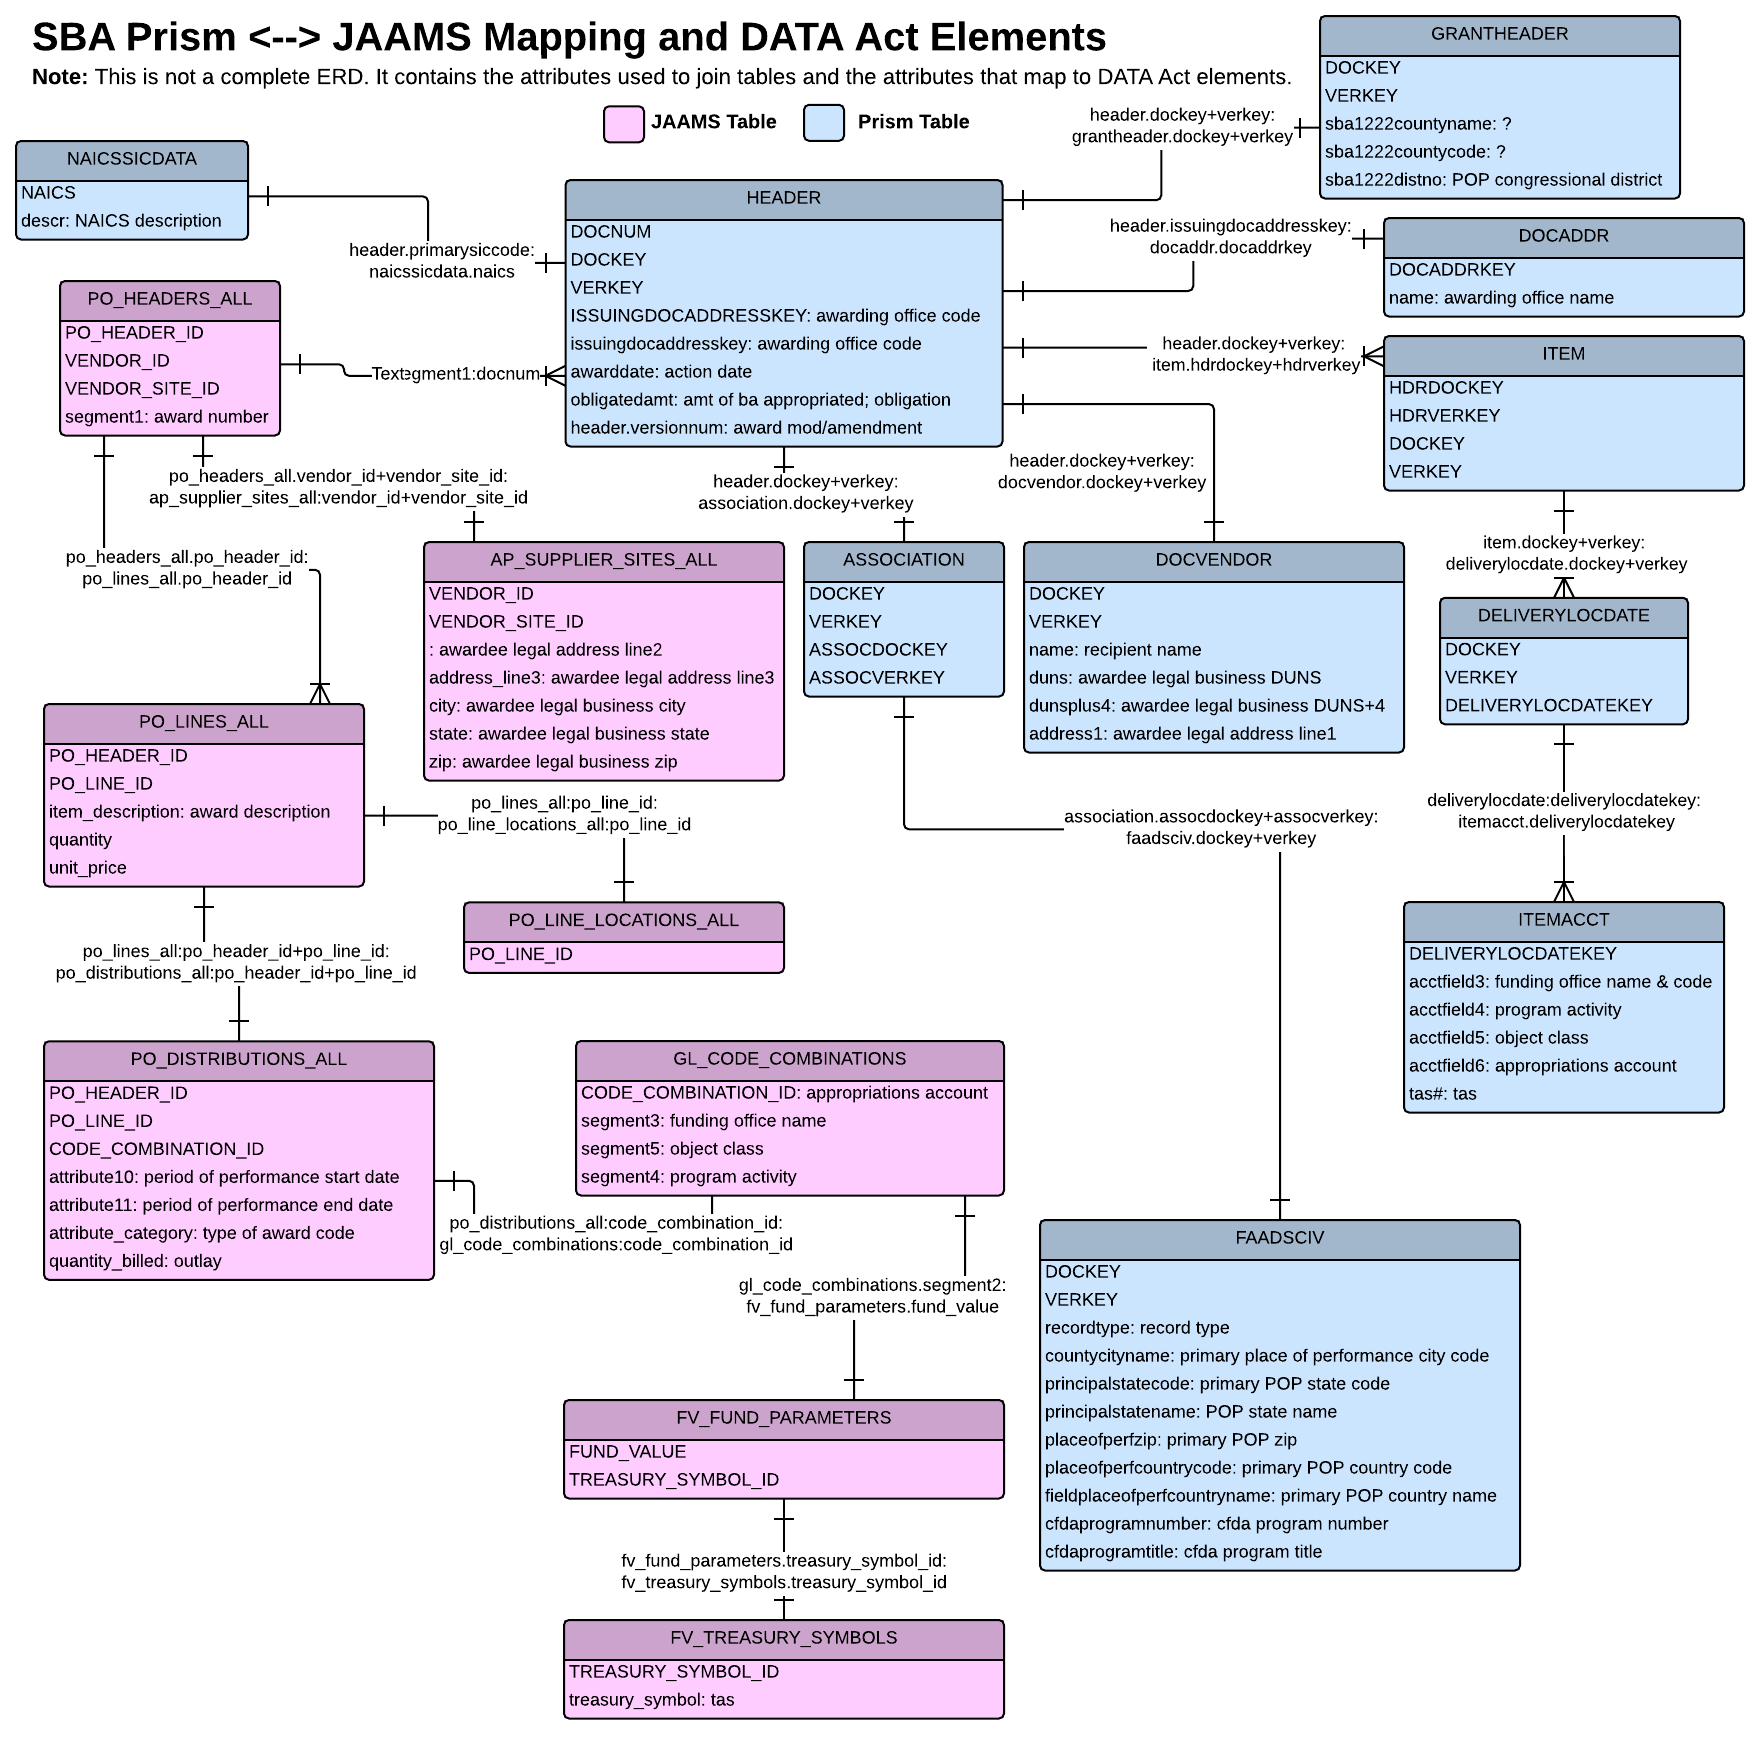
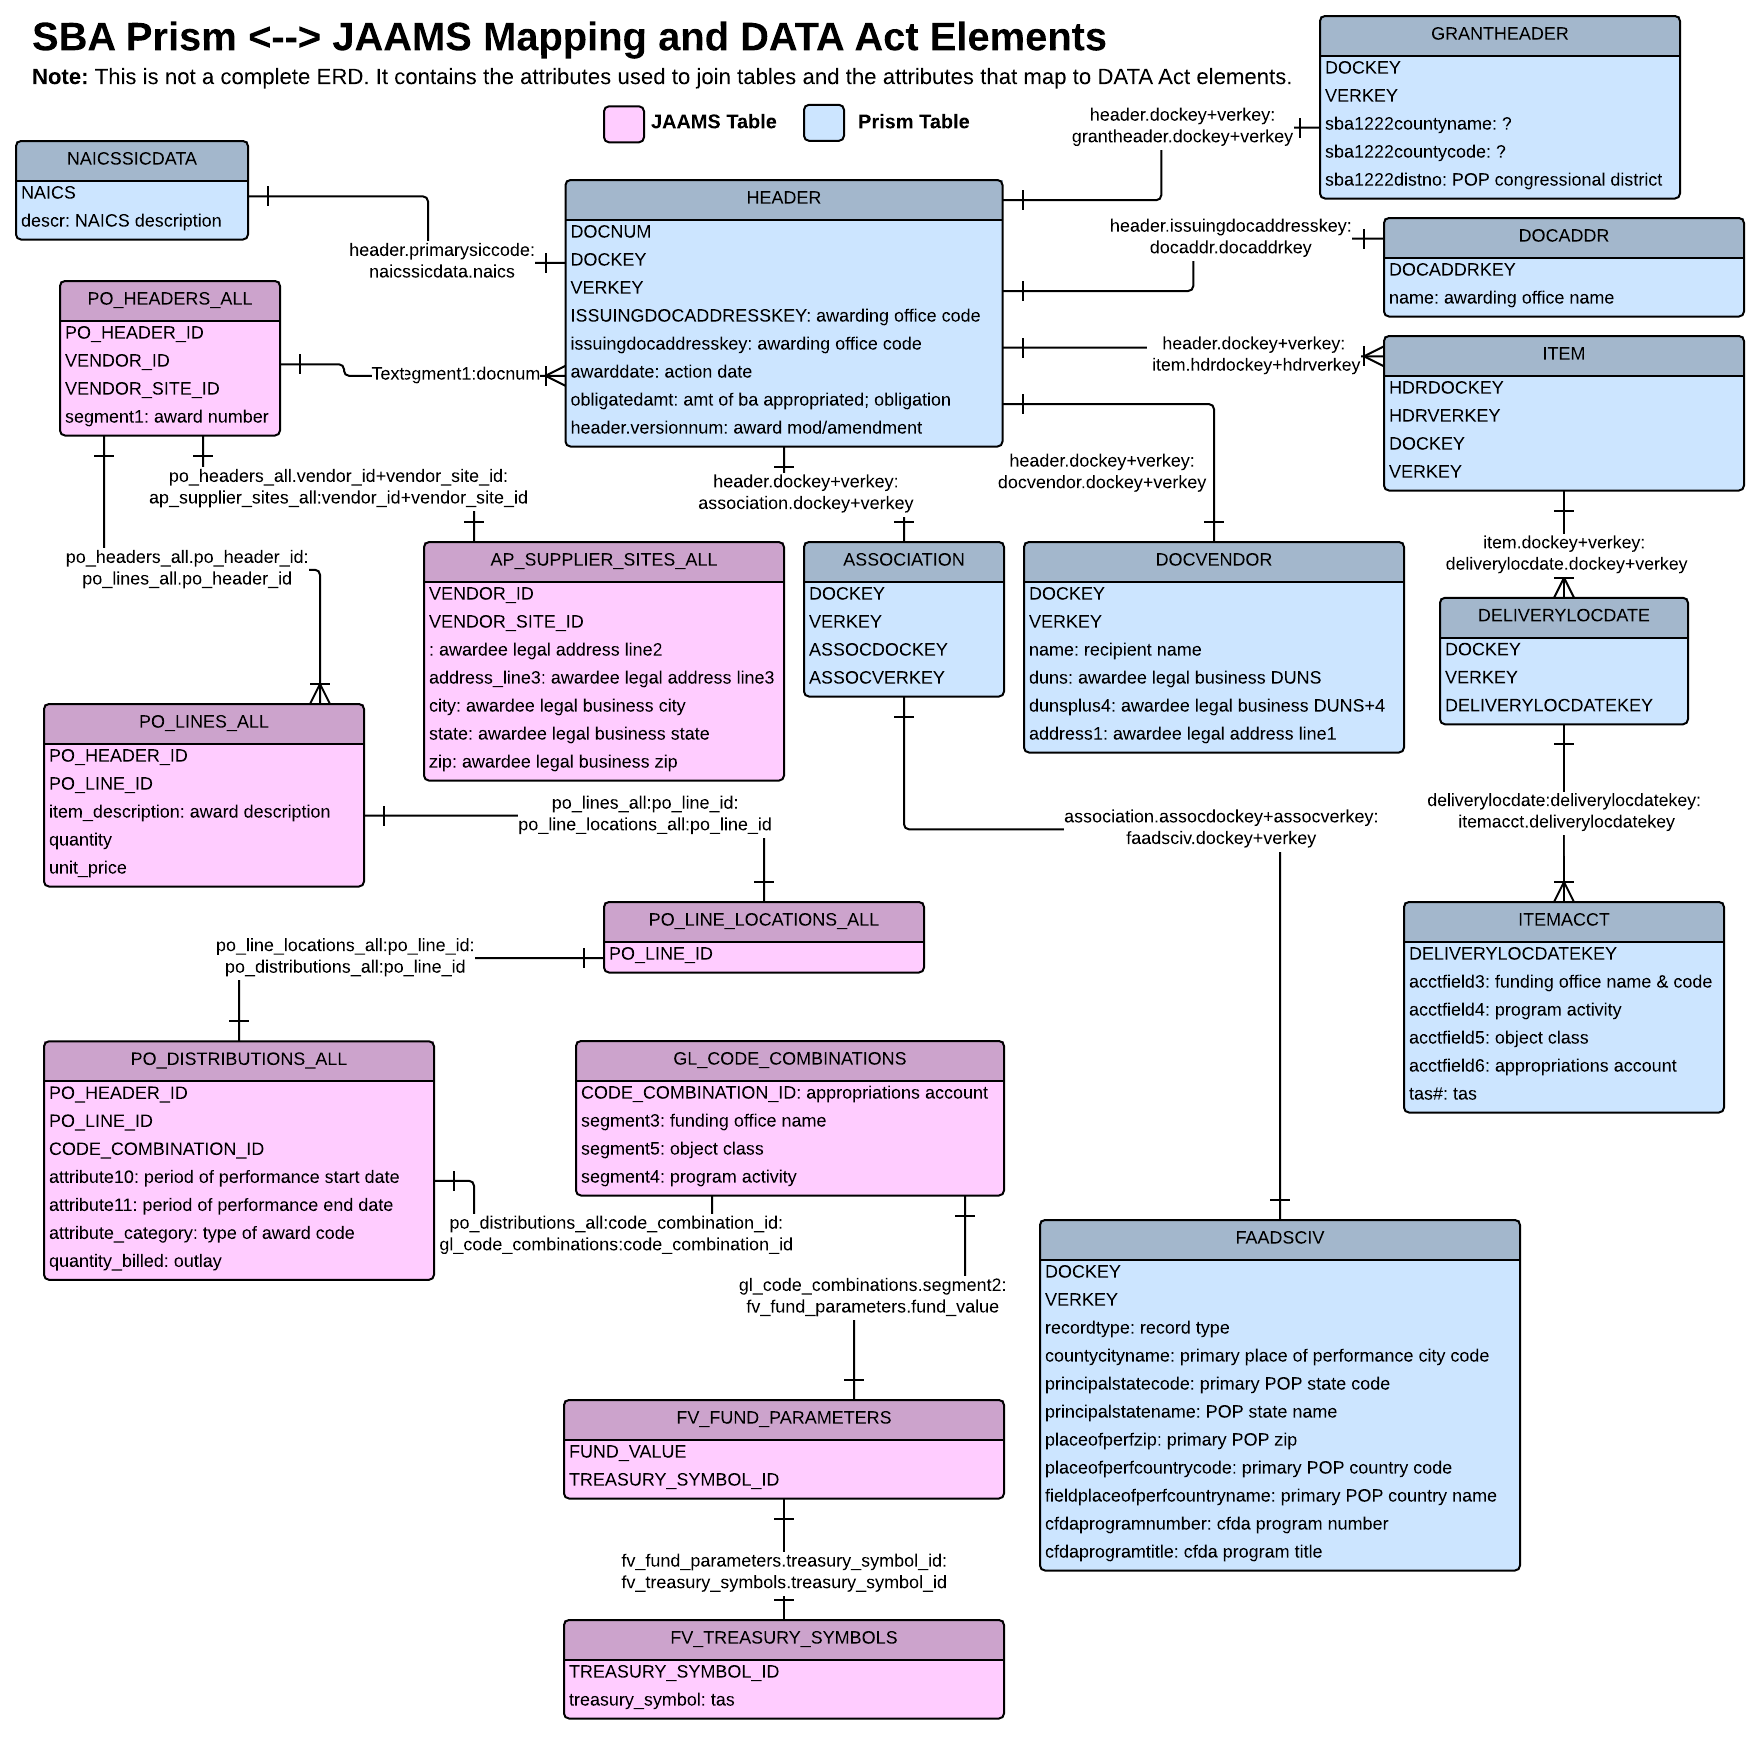
fix po_lines_ joins

Changed region(s): [[0.0312, 0.4375, 0.5312, 0.5625]]

diff --git a/processors/process_source.py b/processors/process_source.py
@@ -98,9 +98,15 @@ def run():
     )
 
     jp_merge = join_data(
+        jp_merge, jaams['po_line_locations_all'],
+        ['po_lines_all.po_line_id'],
+        ['po_line_locations_all.po_line_id']
+    )
+
+    jp_merge = join_data(
         jp_merge, jaams['po_distributions_all'],
-        ['po_lines_all.po_header_id', 'po_lines_all.po_line_id'],
-        ['po_distributions_all.po_header_id', 'po_distributions_all.po_line_id']
+        ['po_line_locations_all.po_line_id'],
+        ['po_distributions_all.po_line_id']
     )
 
     jp_merge = join_data(
